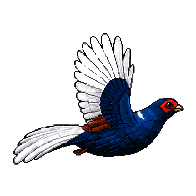
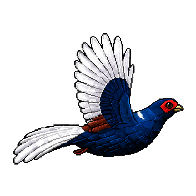
fix(garden): protect pale feathers from background matte leakage
Type: source-mask bug fix and cross-bird audit tooling.
Cause: the exterior neutral-color flood entered pale feather interiors;
previous checks reproduced the old mask and could not certify anatomy.
Source/alpha review of all 63 poses found Swinhoe raised-wing loss and a
Mikado folded-wing white tail-tip loss; foot gaps were false-positive flags.
Fix: explicit source-reviewed foreground stencils restore original RGBA
in those two regions. Preserve all other alpha, source RGB, anchors and poses.
Risk: indiscriminate filling would erase genuine gaps. Keep detection read-only,
hash-bound foreground stencils, independent foreground/background landmarks,
and frozen broken-mask negative controls. Other 61 poses remain unchanged.
Verification: regression failed before the fix and passes after; all-pose
native asset and exact GPU/Canvas parity gates pass. Packaged corrected PNGs
match reviewed assets; required tablet/phone garden installation gates verify
fullscreen, activation/drop, AAC return and display OFF. Review/ZIP published
and checked through the existing authorized HTTPS tunnel.
Scope: artwork alpha only; no physics, layout, scenery, input or GPU changes.

diff --git a/apps/bird-minigame/scripts/audit-bird-alpha.py b/apps/bird-minigame/scripts/audit-bird-alpha.py
@@ -1,0 +1,26 @@
+"""Flag possible pale-plumage losses for visual review; never modifies assets.
+
+A stricter exterior key is a diagnostic perturbation, not a replacement matte.
+It also flags genuine gaps enclosed by pale outlines. Review source and alpha
+before adding any foreground stencil. Small defects can evade the area ranking.
+"""
+import cv2,numpy as np,json,argparse
+from pathlib import Path
+root=Path(__file__).resolve().parents[1]
+parser=argparse.ArgumentParser();parser.add_argument('--threshold',type=int,default=230);parser.add_argument('--out',type=Path,default=root/'tmp/bird-alpha-audit');args=parser.parse_args();assert 165<args.threshold<255
+out=args.out;out.mkdir(parents=True,exist_ok=True)
+m=json.loads((root/'assets/native/manifest.json').read_text());results=[]
+for id,b in m['birds'].items():
+ source=cv2.imread(str(root/b['sourceFile']))
+ for pose,p in enumerate(b['poses']):
+  x,y,w,h=p['sourceRect'];rgb=source[y:y+h,x:x+w];v=rgb.astype(np.int16);old=cv2.imread(str(root/'assets/native/masks'/('{}-{}.png'.format(id,pose))),0)
+  allowed=((v.min(2)>args.threshold)&(v.max(2)-v.min(2)<45)).astype('uint8');_,labels,stats,_=cv2.connectedComponentsWithStats(allowed,connectivity=4)
+  ext=set(np.concatenate([labels[0],labels[-1],labels[:,0],labels[:,-1]]).tolist());ext.discard(0);strong=~np.isin(labels,list(ext));delta=(old==0)&strong
+  n,regions,areas,_=cv2.connectedComponentsWithStats(delta.astype('uint8'),connectivity=8)
+  large=sorted([{'area':int(s[4]),'bounds':s[:4].tolist(),'label':i} for i,s in enumerate(areas) if i and s[4]>=80],key=lambda a:-a['area'])
+  # Diagnostic only: alternative key highlights candidates, never changes artwork.
+  overlay=np.dstack((rgb,old));overlay[delta]=[60,200,255,255]
+  cv2.imwrite(str(out/('{}-{}-suspects.png'.format(id,pose))),overlay)
+  results.append({'id':id,'pose':pose,'opaque':int((old>0).sum()),'candidatePixels':int(delta.sum()),'largest':large[:8],'sourceRect':p['sourceRect'],'nativeSize':[p['width'],p['height']]})
+(out/'suspects.json').write_text(json.dumps(sorted(results,key=lambda a:-(a['largest'][0]['area'] if a['largest'] else 0)),indent=2))
+for r in sorted(results,key=lambda a:-(a['largest'][0]['area'] if a['largest'] else 0))[:20]:print(r['id'],r['pose'],r['candidatePixels'],r['largest'][:2])

diff --git a/apps/bird-minigame/scripts/build-native-assets.py b/apps/bird-minigame/scripts/build-native-assets.py
@@ -43,7 +43,18 @@ for entry in entries:
  frames=[];scale=entry['scale']*RULE['birdDisplayMultiplier']
  for i,pose in enumerate(entry['poses']):
   x,y,w,h=pose['rect'];raw=source[y:y+h,x:x+w];seeds=record.get('backgroundSeeds',{}).get(str(i),[])
-  rgba=extract(raw,seeds);maskpath=DEST/'masks'/('{}-{}.png'.format(species,i));maskpath.parent.mkdir(parents=True,exist_ok=True);cv2.imwrite(str(maskpath),rgba[:,:,3])
+  rgba=extract(raw,seeds)
+  protected=record.get('foregroundMasks',{}).get(str(i))
+  if protected:
+   protection_path=ROOT/'rules'/protected['file'];assert digest(protection_path)==protected['sha256']
+   mask=cv2.imread(str(protection_path),cv2.IMREAD_GRAYSCALE)
+   assert mask.shape==rgba.shape[:2] and np.isin(mask,[0,255]).all()
+   assert int((mask>0).sum())==protected['opaquePixels']
+   assert list(cv2.boundingRect(mask))==protected['bounds']
+   # Source-reviewed foreground is authoritative even when white feathers touch
+   # the generic background component. Preserve original RGB and all other alpha.
+   rgba[mask>0,3]=255
+  maskpath=DEST/'masks'/('{}-{}.png'.format(species,i));maskpath.parent.mkdir(parents=True,exist_ok=True);cv2.imwrite(str(maskpath),rgba[:,:,3])
   width,height=jsround(w*scale),jsround(h*scale);native=native_resize(rgba,width,height)
   filename='birds/{}-{}.png'.format(species,i);sha=export(DEST/filename,native)
   frames.append({'file':filename,'width':width,'height':height,'anchor':[jsround(a*scale) for a in pose['anchor']],'sha256':sha,'sourceRect':pose['rect'],'maskSha256':digest(maskpath)})

diff --git a/apps/bird-minigame/scripts/test_bird_alpha.py b/apps/bird-minigame/scripts/test_bird_alpha.py
@@ -1,0 +1,23 @@
+"""Source-reviewed feather landmarks plus broken-mask negative controls."""
+from pathlib import Path
+import json,cv2
+ROOT=Path(__file__).resolve().parents[1]
+FIXTURE=ROOT/'test/fixtures/bird-alpha'
+def violations(image,case):
+ return sum(image[y,x,3]!=255 for x,y in case['foreground'])+sum(image[y,x,3]!=0 for x,y in case['background'])
+manifest=json.loads((ROOT/'assets/native/manifest.json').read_text())
+baseline=json.loads((FIXTURE/'baseline-manifest.json').read_text())
+cases=json.loads((FIXTURE/'landmarks.json').read_text());changed={(c['id'],c['pose']) for c in cases}
+for case in cases:
+ name='{}-{}'.format(case['id'],case['pose'])
+ broken=cv2.imread(str(FIXTURE/(name+'-broken.png')),-1)
+ assert violations(broken,case)>0,'Negative control must expose the lost feather'
+ image=cv2.imread(str(ROOT/'assets/native/birds'/(name+'.png')),-1)
+ assert violations(image,case)==0,'Feather/background landmark regression: '+name
+for id,bird in manifest['birds'].items():
+ for pose,record in enumerate(bird['poses']):
+  old=baseline['birds'][id]['poses'][pose]
+  if (id,pose) not in changed:assert record==old,'Unrelated pose changed: '+id+str(pose)
+  else:
+   for key in ['width','height','anchor','sourceRect']:assert record[key]==old[key]
+print('PASS feather landmarks, genuine background gaps, broken-mask negative controls and 61 unchanged poses')

diff --git a/apps/bird-minigame/research/FEATHER_ALPHA_AUDIT_2026-09-10.md b/apps/bird-minigame/research/FEATHER_ALPHA_AUDIT_2026-09-10.md
@@ -1,0 +1,73 @@
+# Feather transparency correction and cross-bird audit
+
+Type: diagnosed artwork bug fix with a reusable audit tool. Baseline: 2d0cf85.
+User reported holes in Swinhoe's pheasant wing, then asked how the same problem
+would be identified in other birds. Expected: original pale feathers remain opaque,
+while genuine space between feathers/legs stays transparent.
+
+## Cause and evidence
+
+The offline exterior matte still treated boundary-connected near-neutral pixels
+above 165 as background. It leaked through pale feather outlines into Swinhoe's
+raised white wing. Earlier native/GPU tests preserved that flawed mask and therefore
+could not prove semantic feather preservation. RGBA storage and pixel alignment
+were correct; the source mask was wrong.
+
+All 63 poses were scanned with a stricter exterior-key diagnostic and compared with
+the original artwork on pink backgrounds. Large changed connected regions ranked
+suspects; source/alpha contact sheets established the visual distinctions.
+The audit confirmed a second instance: Mikado's folded-wing white tail tip.
+Large flags between standing birds' feet were genuine background, demonstrating
+why automatic filling or globally raising the key threshold is unsafe.
+No comparable broad feather loss was seen elsewhere in the contact sheets; this
+is not a claim that every fine edge in the other 61 poses is perfect.
+
+The initial exploratory threshold sheet used an OpenCV positional argument that
+left eight-connectivity active. It was not promoted. Final candidates were rebuilt
+using the production four-connectivity rule and the actual current mask; the final
+before/after review and regression use those corrected candidates.
+
+## Fix and risk boundary
+
+Two explicit source-reviewed foreground stencils restore source alpha independently
+of the generic background flood. They preserve original RGB and all other alpha.
+The Swinhoe stencil restores 14,366 source pixels, the Mikado stencil 472. Stencils
+are hash/bounds/size checked in the offline builder. The other 61 pose records,
+dimensions, anchors, source colors and all scenery remain unchanged. This is no
+change to animation timing, physics, input, GPU code, AAC UI or persistent settings.
+
+The repeatable audit tool is `scripts/audit-bird-alpha.py` (Python/OpenCV). It emits
+ranked suspect regions and diagnostic overlays for every pose and never modifies
+assets. Its threshold is a perturbation for finding suspects, not a replacement
+segmentation policy. New ambiguous regions require source review.
+
+## Regression and review
+
+`scripts/test_bird_alpha.py` uses source-inspected native feather and background
+landmarks. It failed on the installed Swinhoe mask before the fix. Saved broken
+Swinhoe and Mikado images remain negative controls. Fixed images must preserve
+feather opacity, keep neighboring background transparent, preserve dimensions/
+anchors, and keep all other 61 pose records unchanged.
+
+The all-pose asset gate separately verifies original RGB sampling and allows alpha
+restoration only within the explicit foreground stencil. It reports 14,838 restored
+source pixels, zero mask errors, zero native sampling errors, and six exact clouds.
+This is separate from rendered GPU/Canvas parity and physical installation checks.
+
+Review evidence is in `tmp/swinhoe-wing-fix-20260910/`, including the four original/
+alpha contact sheets, detailed Mikado tail inspection, final correction preview,
+ranked candidates and per-pose screening decisions. The user-accessible review is
+published as `bird-alpha-audit-20260910.html` through the existing authorized tunnel.
+
+## Validation and delivery
+
+GPU/Canvas exact parity passes for all 16 species and four rendered states at three
+viewports, including resize, context restoration and unavailable-GPU fallback.
+The APK's two corrected PNGs were compared byte for byte with the reviewed exports.
[1 lines of base64/hex data omitted]
+
+Physical tablet gate: `.tmp/tablet-adaptation/garden-R9JT201YLJF-1788999742118/`.
+Physical phone gate: `.tmp/tablet-adaptation/garden-RFCR91GWXLX-1788999867525/`.
+Both gates passed and both displays were verified OFF. Each required `device-test.bat --garden` run verifies the
+installed APK hash, fullscreen, activation/drop, AAC return, and display OFF.
+No optical behavior changed or optical PASS is claimed.

diff --git a/apps/bird-minigame/AGENTS.md b/apps/bird-minigame/AGENTS.md
@@ -204,3 +204,10 @@
   leaf continuity check. Exact bird masks, accepted cloud pixels, renderer parity,
   context restoration, off-grid negative control, and physical-device checks are
   separate evidence; none alone establishes aesthetic acceptance.
+
+- September 10 feather-alpha follow-up: compare original artwork with exported
+  alpha across all 63 poses. A stricter-key scan only flags suspects; never fill
+  them automatically. Source-reviewed foreground stencils protect confirmed white
+  feathers independently of background masks. Run scripts/test_bird_alpha.py with
+  broken-mask negative controls and genuine-background landmarks; equality to an
+  earlier alpha mask alone does not establish correct feather preservation.
